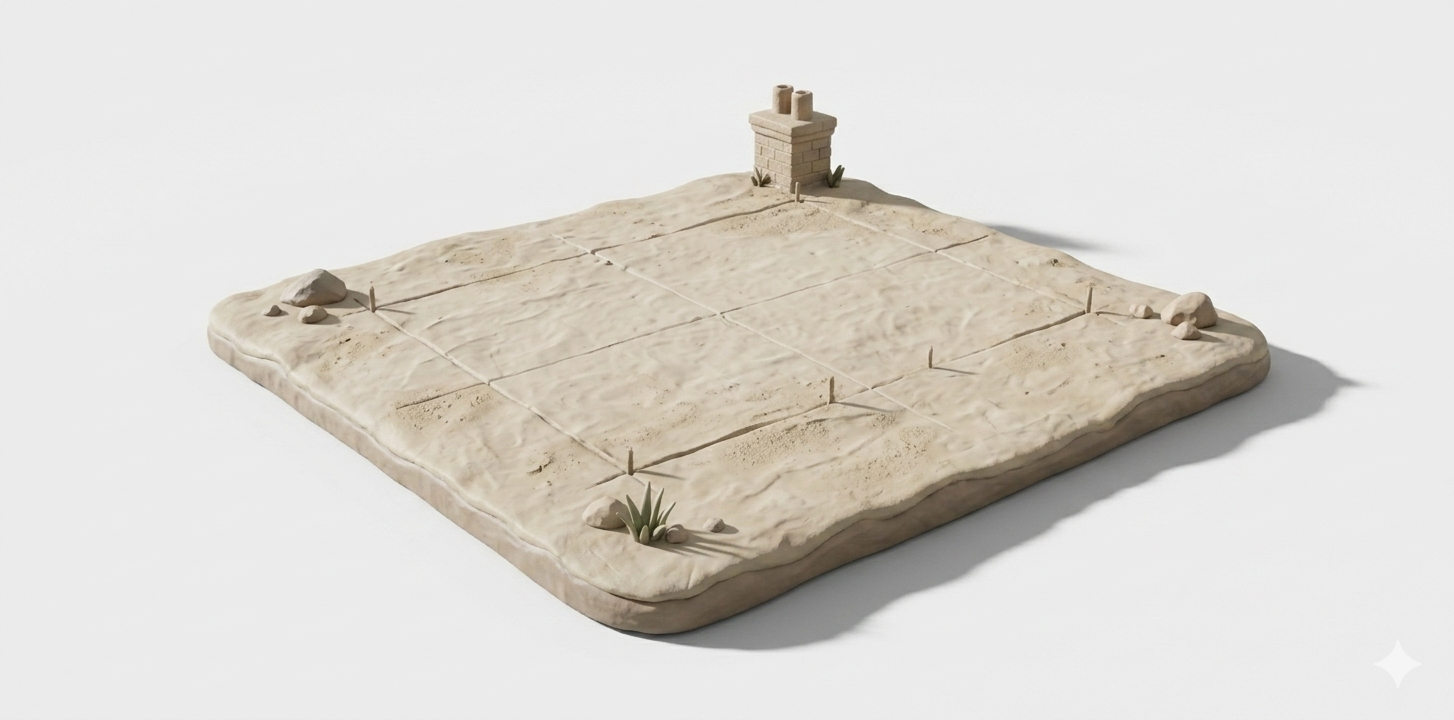
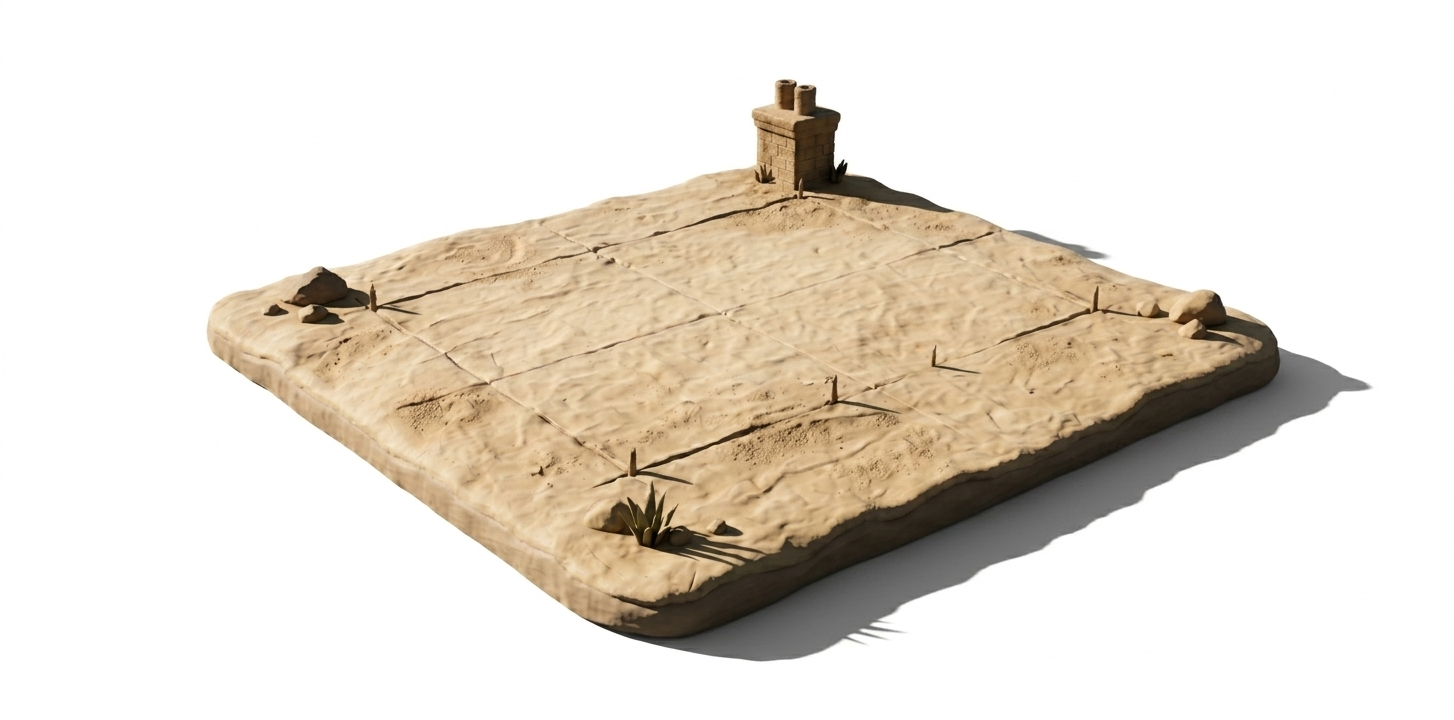
Polish auth and onboarding flow

Changed region(s): [[0.1238, 0.0917, 0.9594, 0.9167]]

diff --git a/src/app/onboarding/page.tsx b/src/app/onboarding/page.tsx
@@ -13,7 +13,7 @@ import {
 } from '@/components/ui/drawer'
 import { LoadingButton } from '@/components/ui/loading-button'
 
-type Profile = { onboardingCompleted: boolean }
+type Profile = { onboardingCompleted: boolean; role: 'user' | 'admin' | 'manager' }
 type Property = { id: string }
 
 export default function OnboardingPage() {
@@ -28,9 +28,17 @@ export default function OnboardingPage() {
 
     async function check() {
       try {
-        const profile = await api.get<Profile>('/profiles/me').catch(() => null)
+        const [profile, properties] = await Promise.all([
+          api.get<Profile>('/profiles/me').catch(() => null),
+          api.get<Property[]>('/properties').catch(() => []),
+        ])
 
         if (!profile) {
+          router.replace('/login')
+          return
+        }
+
+        if (profile.role !== 'user') {
           router.replace('/login')
           return
         }
@@ -39,8 +47,6 @@ export default function OnboardingPage() {
           router.replace('/home')
           return
         }
-
-        const properties = await api.get<Property[]>('/properties').catch(() => [])
 
         if (properties.length > 0) {
           router.replace('/onboarding/complete')
@@ -72,8 +78,8 @@ export default function OnboardingPage() {
 
   return (
     <>
-      <div className="flex min-h-[calc(100dvh-48px)] flex-col">
-        <PropertyForm />
+      <div className="animate-fade-up-fast flex min-h-[calc(100dvh-48px)] flex-col">
+        <PropertyForm animated={false} />
 
         <div className="mt-8 flex justify-center pb-8">
           <button

diff --git a/src/app/(auth)/login/auth-form.tsx b/src/app/(auth)/login/auth-form.tsx
@@ -255,7 +255,9 @@ export function AuthForm() {
     setMessage(undefined)
   }
 
-  if (authLoading || (user && profileLoading)) {
+  const showBlockingLoader = !pending && (authLoading || (user && profileLoading))
+
+  if (showBlockingLoader) {
     return (
       <div className="flex min-h-[100dvh] items-center justify-center bg-white px-6">
         <div className="h-6 w-6 animate-spin rounded-full border-2 border-outline-dim border-t-ink-muted" />
